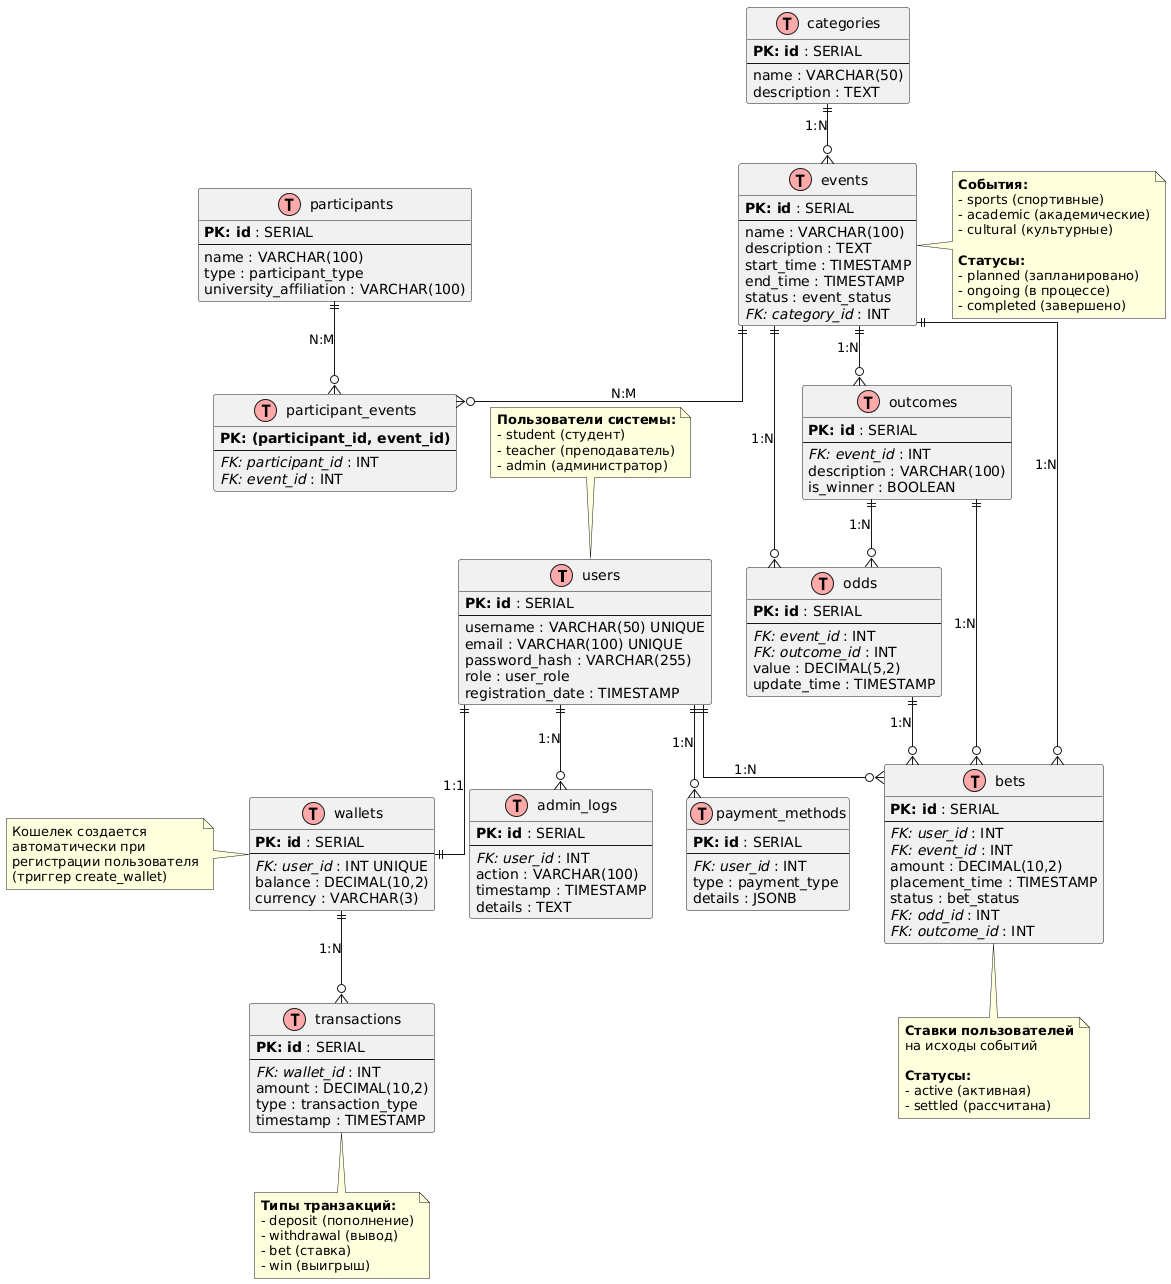
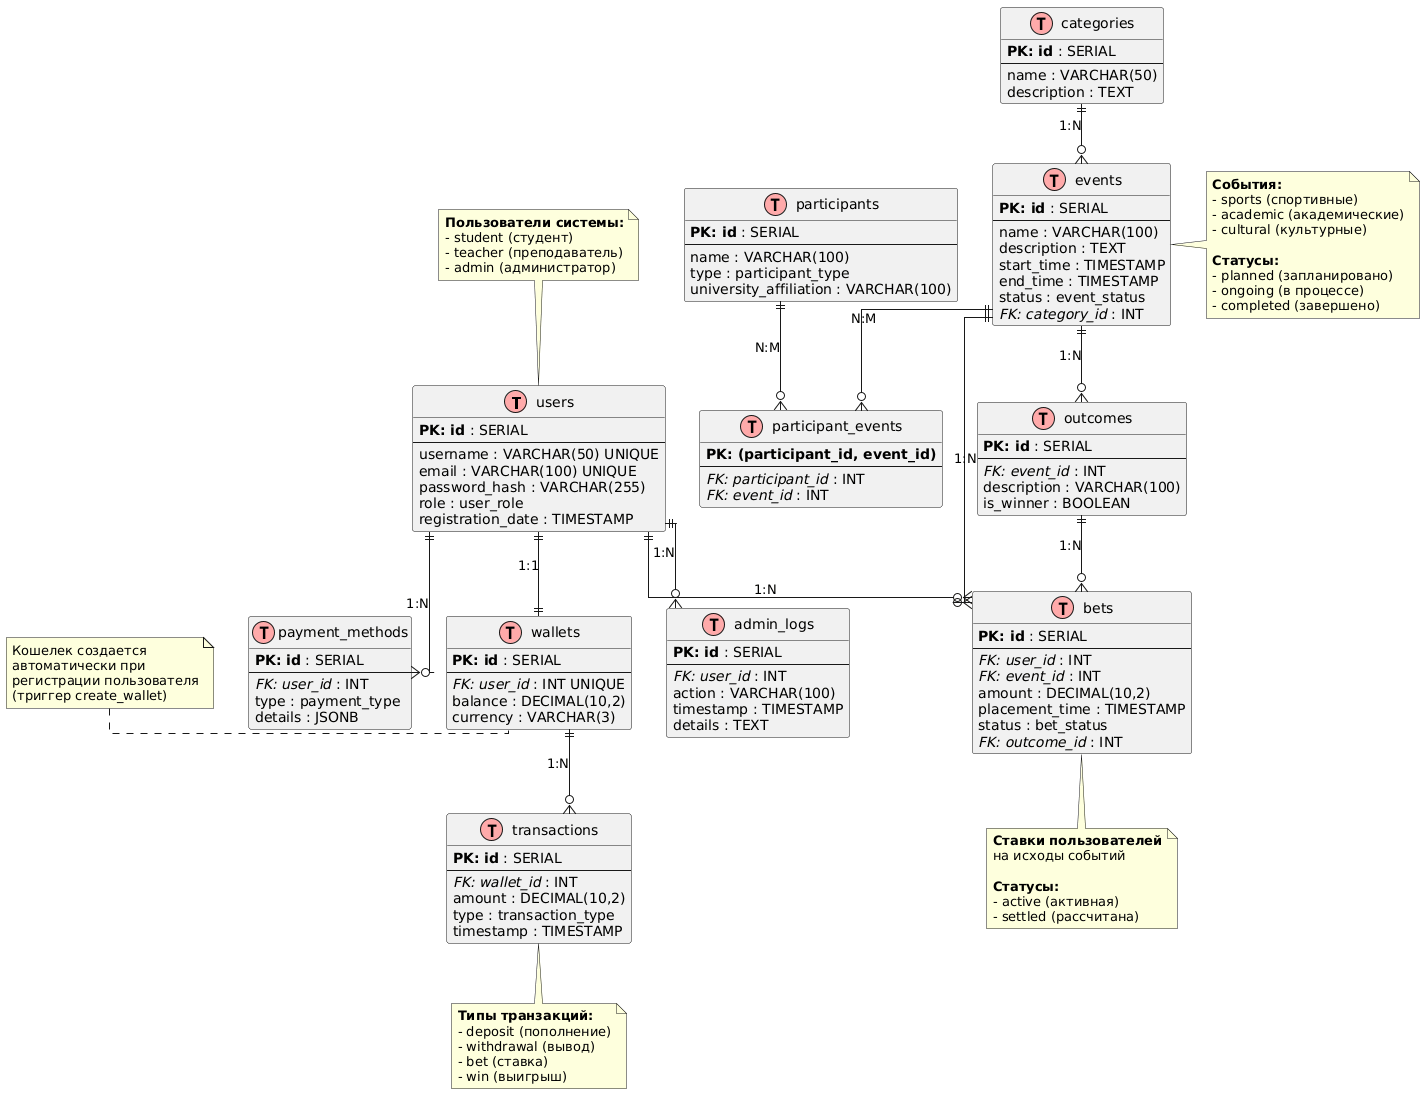
fix: remove odds table

Changed region(s): [[0.0, 0.0, 1.0, 1.0]]

diff --git a/docs/Stage2.md b/docs/Stage2.md
@@ -5,24 +5,22 @@
 4. **Participant** (Участник): id (PK), name, type (team/individual), university_affiliation.
 5. **Bet** (Ставка): id (PK), amount, placement_time, status (active/settled).
 6. **Outcome** (Исход): id (PK), description, is_winner (boolean).
-7. **Odd** (Коэффициент): id (PK), value (decimal), update_time.
-8. **Wallet** (Кошелек): id (PK), balance, currency.
-9. **Transaction** (Транзакция): id (PK), amount, type (deposit/withdrawal/bet/win), timestamp.
-10. **AdminLog** (Журнал администратора): id (PK), action, timestamp, details.
-11. **PaymentMethod** (Метод платежа): id (PK), type (card/bank_transfer), details.
+7. **Wallet** (Кошелек): id (PK), balance, currency.
+8. **Transaction** (Транзакция): id (PK), amount, type (deposit/withdrawal/bet/win), timestamp.
+9. **AdminLog** (Журнал администратора): id (PK), action, timestamp, details.
+10. **PaymentMethod** (Метод платежа): id (PK), type (card/bank_transfer), details.
 
 #### Связи:
-- **User 1:N Wallet** (один пользователь имеет один кошелек, кошелек принадлежит одному пользователю).
+- **User 1:1 Wallet** (один пользователь имеет один кошелек, кошелек принадлежит одному пользователю).
 - **User 1:N Bet** (пользователь размещает много ставок).
 - **Event 1:N Bet** (событие имеет много ставок).
 - **Event 1:N Outcome** (событие имеет несколько возможных исходов).
 - **Event 1:1 Category** (событие относится к одной категории).
-- **Bet 1:1 Odd** (ставка ассоциирована с одним коэффициентом).
 - **Wallet 1:N Transaction** (кошелек имеет много транзакций).
 - **User 1:N AdminLog** (администратор логирует действия; только для ролей admin).
 - **User 1:N PaymentMethod** (пользователь имеет несколько методов платежа).
 - **Participant N:M Event** (многие-ко-многим: участник может быть в нескольких событиях, событие имеет нескольких участников; реализуется через промежуточную сущность ParticipantEvent).
-- **Bet 1:N Outcome** (ставка может быть связана с конкретным исходом для расчета).
+- **Bet 1:1 Outcome** (ставка связана с конкретным исходом).
 
 ![alt text](https://github.com/Vaskozlov/is-course-work/blob/main/docs/data_base_uml.png)
 
@@ -33,18 +31,15 @@
 2. **events**: id SERIAL PRIMARY KEY, name VARCHAR(100), description TEXT, start_time TIMESTAMP, end_time TIMESTAMP, status ENUM('planned', 'ongoing', 'completed'), category_id INT REFERENCES categories(id).
 3. **categories**: id SERIAL PRIMARY KEY, name VARCHAR(50), description TEXT.
 4. **participants**: id SERIAL PRIMARY KEY, name VARCHAR(100), type ENUM('team', 'individual'), university_affiliation VARCHAR(100).
-5. **bets**: id SERIAL PRIMARY KEY, user_id INT REFERENCES users(id), event_id INT REFERENCES events(id), amount DECIMAL(10,2), placement_time TIMESTAMP DEFAULT CURRENT_TIMESTAMP, status ENUM('active', 'settled'), odd_id INT REFERENCES odds(id), outcome_id INT REFERENCES outcomes(id).
+5. **bets**: id SERIAL PRIMARY KEY, user_id INT REFERENCES users(id), event_id INT REFERENCES events(id), amount DECIMAL(10,2), placement_time TIMESTAMP DEFAULT CURRENT_TIMESTAMP, status ENUM('active', 'settled'), outcome_id INT REFERENCES outcomes(id).
 6. **outcomes**: id SERIAL PRIMARY KEY, event_id INT REFERENCES events(id), description VARCHAR(100), is_winner BOOLEAN.
-7. **odds**: id SERIAL PRIMARY KEY, event_id INT REFERENCES events(id), outcome_id INT REFERENCES outcomes(id), value DECIMAL(5,2), update_time TIMESTAMP DEFAULT CURRENT_TIMESTAMP.
-8. **wallets**: id SERIAL PRIMARY KEY, user_id INT UNIQUE REFERENCES users(id), balance DECIMAL(10,2) DEFAULT 0, currency VARCHAR(3) DEFAULT 'RUB'.
-9. **transactions**: id SERIAL PRIMARY KEY, wallet_id INT REFERENCES wallets(id), amount DECIMAL(10,2), type ENUM('deposit', 'withdrawal', 'bet', 'win'), timestamp TIMESTAMP DEFAULT CURRENT_TIMESTAMP.
-10. **admin_logs**: id SERIAL PRIMARY KEY, user_id INT REFERENCES users(id), action VARCHAR(100), timestamp TIMESTAMP DEFAULT CURRENT_TIMESTAMP, details TEXT.
-11. **payment_methods**: id SERIAL PRIMARY KEY, user_id INT REFERENCES users(id), type ENUM('card', 'bank_transfer'), details JSONB.
-12. **participant_events** (для N:M): participant_id INT REFERENCES participants(id), event_id INT REFERENCES events(id), PRIMARY KEY (participant_id, event_id).
+7. **wallets**: id SERIAL PRIMARY KEY, user_id INT UNIQUE REFERENCES users(id), balance DECIMAL(10,2) DEFAULT 0, currency VARCHAR(3) DEFAULT 'RUB'.
+8. **transactions**: id SERIAL PRIMARY KEY, wallet_id INT REFERENCES wallets(id), amount DECIMAL(10,2), type ENUM('deposit', 'withdrawal', 'bet', 'win'), timestamp TIMESTAMP DEFAULT CURRENT_TIMESTAMP.
+9. **admin_logs**: id SERIAL PRIMARY KEY, user_id INT REFERENCES users(id), action VARCHAR(100), timestamp TIMESTAMP DEFAULT CURRENT_TIMESTAMP, details TEXT.
+10. **payment_methods**: id SERIAL PRIMARY KEY, user_id INT REFERENCES users(id), type ENUM('card', 'bank_transfer'), details JSONB.
+11. **participant_events** (для N:M): participant_id INT REFERENCES participants(id), event_id INT REFERENCES events(id), PRIMARY KEY (participant_id, event_id).
 
 ### Реализация в PostgreSQL
-
-Я реализую модель в PostgreSQL. Целостность обеспечивается через PRIMARY KEY, UNIQUE, FOREIGN KEY, CHECK constraints в DDL, и триггерами для сложной логики (например, обновление баланса при ставке).
 
 #### Скрипты DDL
 
@@ -107,14 +102,6 @@ CREATE TABLE outcomes (
     is_winner BOOLEAN DEFAULT FALSE
 );
 
-CREATE TABLE odds (
-    id SERIAL PRIMARY KEY,
-    event_id INT REFERENCES events(id) ON DELETE CASCADE,
-    outcome_id INT REFERENCES outcomes(id) ON DELETE CASCADE,
-    value DECIMAL(5,2) NOT NULL CHECK (value > 0),
-    update_time TIMESTAMP DEFAULT CURRENT_TIMESTAMP
-);
-
 CREATE TABLE wallets (
     id SERIAL PRIMARY KEY,
     user_id INT UNIQUE REFERENCES users(id) ON DELETE CASCADE,
@@ -129,7 +116,6 @@ CREATE TABLE bets (
     amount DECIMAL(10,2) NOT NULL CHECK (amount > 0),
     placement_time TIMESTAMP DEFAULT CURRENT_TIMESTAMP,
     status bet_status NOT NULL DEFAULT 'active',
-    odd_id INT REFERENCES odds(id) ON DELETE SET NULL,
     outcome_id INT REFERENCES outcomes(id) ON DELETE SET NULL
 );
 
@@ -188,14 +174,18 @@ FOR EACH ROW EXECUTE FUNCTION place_bet_trigger();
 CREATE OR REPLACE FUNCTION settle_bet_trigger() RETURNS TRIGGER AS $$
 DECLARE
     bet_record RECORD;
+    winning_outcome_id INT;
 BEGIN
     IF NEW.status = 'completed' THEN
+        SELECT id INTO winning_outcome_id FROM outcomes WHERE event_id = NEW.id AND is_winner = TRUE;
+        
         FOR bet_record IN SELECT * FROM bets WHERE event_id = NEW.id AND status = 'active' LOOP
-            IF bet_record.outcome_id = (SELECT id FROM outcomes WHERE event_id = NEW.id AND is_winner = TRUE) THEN
-                UPDATE wallets SET balance = balance + (bet_record.amount * (SELECT value FROM odds WHERE id = bet_record.odd_id))
+            IF bet_record.outcome_id = winning_outcome_id THEN
+                -- Просто возвращаем сумму ставки (можно умножить на множитель, например 2x)
+                UPDATE wallets SET balance = balance + (bet_record.amount * 2)
                 WHERE user_id = bet_record.user_id;
                 INSERT INTO transactions (wallet_id, amount, type) 
-                VALUES ((SELECT id FROM wallets WHERE user_id = bet_record.user_id), bet_record.amount * (SELECT value FROM odds WHERE id = bet_record.odd_id), 'win');
+                VALUES ((SELECT id FROM wallets WHERE user_id = bet_record.user_id), bet_record.amount * 2, 'win');
             END IF;
             UPDATE bets SET status = 'settled' WHERE id = bet_record.id;
         END LOOP;
@@ -249,14 +239,9 @@ INSERT INTO outcomes (event_id, description, is_winner) VALUES
 (1, 'SPbU wins', FALSE),
 (2, 'Student A wins', FALSE);
 
-INSERT INTO odds (event_id, outcome_id, value) VALUES 
-(1, 1, 1.5),
-(1, 2, 2.0),
-(2, 3, 1.8);
-
-INSERT INTO bets (user_id, event_id, amount, odd_id, outcome_id) VALUES 
-(1, 1, 100.00, 1, 1),
-(2, 2, 50.00, 3, 3);
+INSERT INTO bets (user_id, event_id, amount, outcome_id) VALUES 
+(1, 1, 100.00, 1),
+(2, 2, 50.00, 3);
 
 INSERT INTO transactions (wallet_id, amount, type) VALUES 
 (1, 200.00, 'deposit'),
@@ -278,15 +263,14 @@ CREATE OR REPLACE FUNCTION place_bet(
     p_user_id INT, 
     p_event_id INT, 
     p_amount DECIMAL, 
-    p_odd_id INT, 
     p_outcome_id INT
 ) RETURNS VOID AS $$
 BEGIN
     IF (SELECT balance FROM wallets WHERE user_id = p_user_id) < p_amount THEN
         RAISE EXCEPTION 'Insufficient balance';
     END IF;
-    INSERT INTO bets (user_id, event_id, amount, odd_id, outcome_id) 
-    VALUES (p_user_id, p_event_id, p_amount, p_odd_id, p_outcome_id);
+    INSERT INTO bets (user_id, event_id, amount, outcome_id) 
+    VALUES (p_user_id, p_event_id, p_amount, p_outcome_id);
     -- Триггер обработает обновление баланса
 END;
 $$ LANGUAGE plpgsql;
@@ -337,17 +321,16 @@ $$ LANGUAGE plpgsql;
 
 На основе прецедентов (регистрация, размещение/просмотр ставок, поиск событий, расчет выигрышей, админ-отчеты). Анализ: частые SELECT по user_id, event_id; JOIN по foreign keys; фильтры по status, timestamp.
 
-Созданные индексы:
+Созданные индексы (в DDL добавить после таблиц):
 
 ```sql
-CREATE INDEX idx_users_email ON users(email);
-CREATE INDEX idx_events_status ON events(status);
-CREATE INDEX idx_events_start_time ON events(start_time);
-CREATE INDEX idx_bets_user_id ON bets(user_id);
-CREATE INDEX idx_bets_event_id ON bets(event_id);
-CREATE INDEX idx_transactions_wallet_id ON transactions(wallet_id);
-CREATE INDEX idx_outcomes_event_id ON outcomes(event_id);
-CREATE INDEX idx_odds_event_id ON odds(event_id);
+CREATE INDEX idx_users_email ON users(email);  -- Для быстрой аутентификации (прецедент: логин).
+CREATE INDEX idx_events_status ON events(status);  -- Для поиска активных событий (прецедент: просмотр событий).
+CREATE INDEX idx_events_start_time ON events(start_time);  -- Для сортировки по времени (прецедент: расписание).
+CREATE INDEX idx_bets_user_id ON bets(user_id);  -- Для просмотра ставок пользователя (прецедент: история ставок).
+CREATE INDEX idx_bets_event_id ON bets(event_id);  -- Для расчета по событию (прецедент: завершение события).
+CREATE INDEX idx_transactions_wallet_id ON transactions(wallet_id);  -- Для истории транзакций (прецедент: финансовый отчет).
+CREATE INDEX idx_outcomes_event_id ON outcomes(event_id);  -- Для быстрого нахождения исходов (прецедент: расчет выигрыша).
 ```
 
 Обоснование:
@@ -355,4 +338,6 @@ CREATE INDEX idx_odds_event_id ON odds(event_id);
 - **idx_events_status и idx_events_start_time**: Оптимизируют запросы на список событий (например, SELECT * FROM events WHERE status = 'planned' ORDER BY start_time), полезно для бизнес-процесса просмотра и ставок на предстоящие события.
 - **idx_bets_user_id и idx_bets_event_id**: Ускоряют JOIN и GROUP BY в прецедентах истории ставок и расчета выигрышей (например, SELECT SUM(amount) FROM bets WHERE user_id = ?), снижая время на частые операции.
 - **idx_transactions_wallet_id**: Для отчетов по финансам (прецедент: просмотр баланса/транзакций), где много записей.
-- **idx_outcomes_event_id и idx_odds_event_id**: Критично для прецедента завершения события, где нужно быстро обновлять и рассчитывать (UPDATE/SELECT по event_id).
+- **idx_outcomes_event_id**: Критично для прецедента завершения события, где нужно быстро обновлять и рассчитывать (UPDATE/SELECT по event_id).
+
+Эти индексы балансируют чтение/запись, фокусируясь на read-heavy прецедентах (просмотр > запись). В будущем можно мониторить с EXPLAIN ANALYZE.
